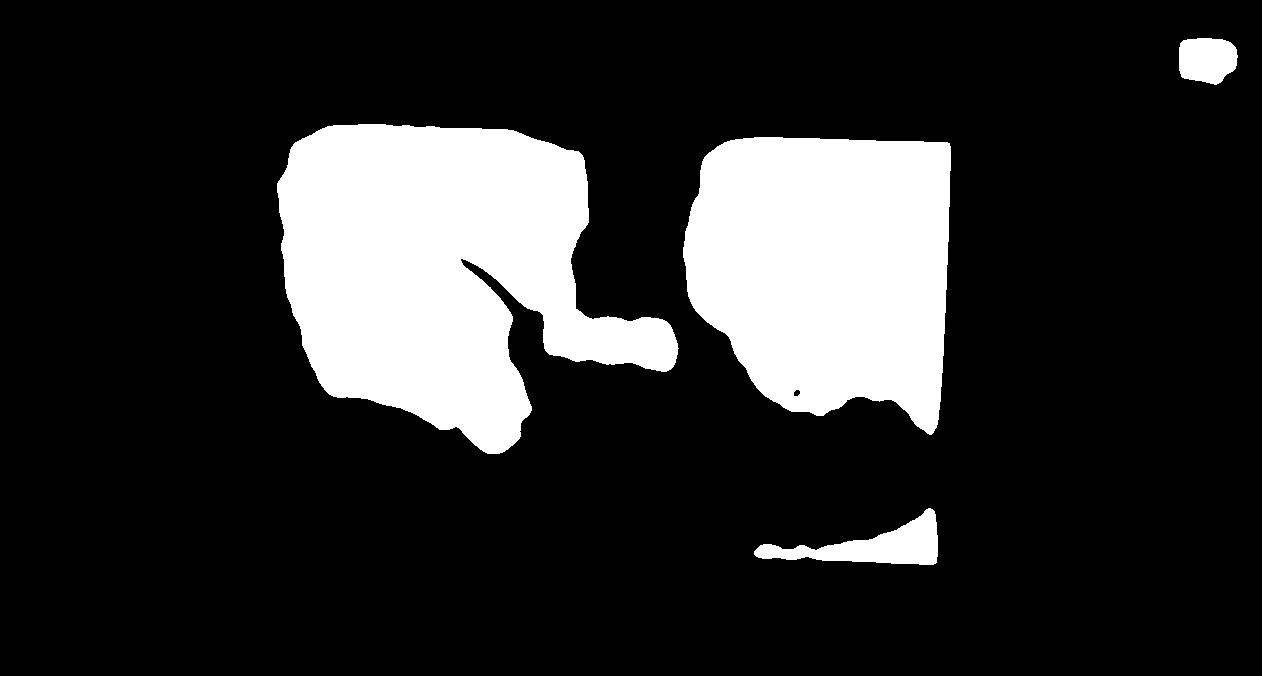
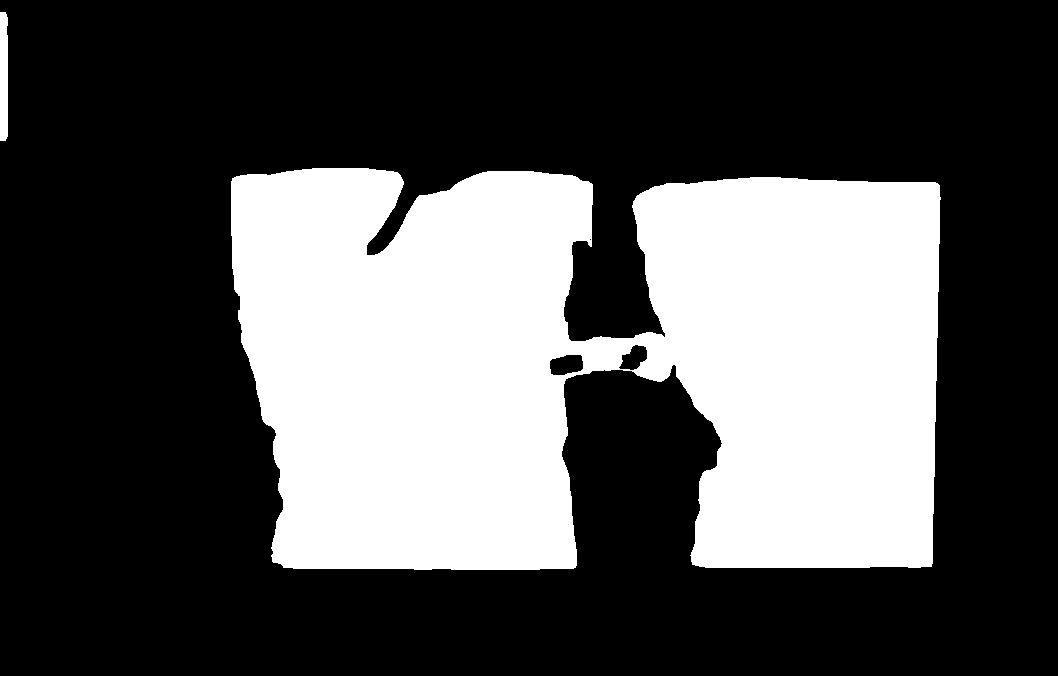
hitting the pause button

Changed region(s): [[0.2183, 0.1864, 0.9045, 0.8698], [0.0, 0.0311, 0.0312, 0.2175], [0.9357, 0.0311, 0.9981, 0.1243]]

diff --git a/test2.py b/test2.py
@@ -28,10 +28,11 @@ CV_CAP_PROP_MODE = 9
 #CV_CAP_PROP_RECTIFICATION
 
 class ExperimentMetrics(object):
-    square_25=square_50=square_75=square_100=dist_square_25=dist_square_50=dist_square_75=dist_square_100=square_num_bout=square_frame_bout=square_distance_bout=counter = 0
-    last_known_point= [0,0]
-    square_lap_bout = []
-    per25_point1 = per25_point2 = per50_point1 = per50_point2 = per75_point1 = per75_point2 = [0,0]
+    def __init__(self):
+        self.square_25=self.square_50=self.square_75=self.square_100=self.dist_square_25=self.dist_square_50=self.dist_square_75=self.dist_square_100=self.square_num_bout=self.square_frame_bout=self.square_distance_bout=self.counter = 0
+        self.last_known_point= [0,0]
+        self.square_lap_bout = []
+        self.per25_point1 = self.per25_point2 = self.per50_point1 = self.per50_point2 = self.per75_point1 = self.per75_point2 = [0,0]
 
     # The class "constructor" - It's actually an initializer
     #def __init__():
@@ -42,14 +43,16 @@ class ExperimentMetrics(object):
 #upper_right_25=upper_right_50=upper_right_75=upper_right=dist_upper_right_25=dist_upper_right_50=dist_upper_right_75=dist_upper_right=right_known_point=upper_right_num_bout=upper_right_frame_bout=upper_right_distance_bout=right_counter = 0
 #upper_right_lap_bout = []
 
-if len(sys.argv) != 3:
-    sys.stderr.write("usage: python test.py video_file results.xls\n")
+if len(sys.argv) != 4:
+    sys.stderr.write("usage: python test.py video_file results.xls dark/bright\n")
     sys.exit()
 # create video capture
 #cap = cv2.VideoCapture("/Users/hayer/Desktop/Anand/openfields/100611_openfield-b5.m4v")
 #cap = cv2.VideoCapture("/Users/kat/Desktop/071411_batch4-openfield.m4v")
 cap = cv2.VideoCapture(sys.argv[1])
 sample_name = sys.argv[1].split("/")[-1].split(".")[0]
+global brightness
+brightness = sys.argv[3]
 
 
 print sample_name
@@ -66,6 +69,7 @@ frame_per_sec = cap.get(CV_CAP_PROP_FPS)
 ##frame_per_sec = 30.03888889
 print "Frame per sec"
 print frame_per_sec
+increaser = int(frame_per_sec/5)
 
 def draw_rect(pic,height,width,percentage):
     w = int(width*percentage)
@@ -92,8 +96,11 @@ def analyze(frame,frame_name,frame2,x,y,exp_obj,width):
     frame3 = cv2.blur(frame,(17,17))
     #cv2.imshow('blur',frame)
     # convert to hsv and find range of colors
-    hsv = cv2.cvtColor(frame3,cv2.COLOR_BGR2HSV)
-    thresh = cv2.inRange(hsv,np.array((0, 0, 1)), np.array((0, 0, 20)))
+    hsv = frame3 #cv2.cvtColor(frame3,cv2.COLOR_BGR2HSV)
+    if brightness == "bright":
+        thresh = cv2.inRange(hsv,np.array((1, 1, 1)), np.array((150, 150, 150)))
+    else:
+        thresh = cv2.inRange(hsv,np.array((0, 0, 1)), np.array((0, 0, 15)))
 
     #res = cv2.morphologyEx(thresh,cv2.MORPH_OPEN,element)
     #cv2.imshow('thresh_first2',res)
@@ -155,15 +162,29 @@ def analyze(frame,frame_name,frame2,x,y,exp_obj,width):
             summe = [summe[0]+point[0][0],summe[1]+point[0][1]]
         mid_point = [summe[0]/number_of_points,summe[1]/number_of_points]
         ## Points for Histogramm
-        x.append(mid_point[0])
-        y.append(mid_point[1])
+        #x.append(mid_point[0])
+        #y.append(mid_point[1])
         mid_point = tuple([int(mid_point[0]),int(mid_point[1])])
         mid_points.append(mid_point)
-        cv2.circle(frame2,mid_point, 1, cv.CV_RGB(255,0,0))
-        cv2.circle(frame,mid_point, 1, cv.CV_RGB(255,0,0))
+        #cv2.circle(frame2,mid_point, 1, cv.CV_RGB(255,0,0))
+        #cv2.circle(frame,mid_point, 1, cv.CV_RGB(255,0,0))
+
+    closest = None
+    distance = 3000
+    for mp in mid_points:
+        if distance > dist(exp_obj.last_known_point,mp):
+            distance = dist(exp_obj.last_known_point,mp)
+            closest = mp
+
 
     in_mid_points = 0
-    for mp in mid_points:
+    if closest is not None:
+        mp = closest
+
+        x.append(mp[0])
+        y.append(mp[1])
+        cv2.circle(frame2,mp, 1, cv.CV_RGB(255,0,0))
+        cv2.circle(frame,mp, 1, cv.CV_RGB(255,0,0))
         in_mid_points = 1
         exp_obj.last_known_point = exp_obj.last_known_point or mp
         distance = dist(exp_obj.last_known_point,mp)
@@ -194,7 +215,6 @@ def analyze(frame,frame_name,frame2,x,y,exp_obj,width):
             exp_obj.square_100 = exp_obj.square_100 + 1
             exp_obj.dist_square_100 = exp_obj.dist_square_100 + distance
         exp_obj.last_known_point = mp
-        break
         #last_known_point = mp
 
     if in_mid_points == 0:
@@ -223,14 +243,20 @@ def analyze(frame,frame_name,frame2,x,y,exp_obj,width):
     cv2.imshow('%sframe' % (frame_name),frame)
     return
 
+cap.set(CV_CAP_PROP_POS_FRAMES,500)
 _,frame2 = cap.read()
 imgray = cv2.blur(frame2,(15,15))
-thresh = cv2.inRange(imgray,np.array((110,110,110)), np.array((300, 300, 300)))
-element = cv2.getStructuringElement(cv2.MORPH_ELLIPSE ,(5,5))
-cv2.erode(thresh,element,thresh,None,6)
-cv2.dilate(thresh,element,thresh,None,10)
-
+#imgray = cv2.cvtColor(imgray,cv2.COLOR_BGR2GRAY)
+if brightness == "bright":
+    #thresh = cv2.inRange(imgray,np.array((200)), np.array((300)))
+    thresh = cv2.inRange(imgray,np.array((250,250,250)), np.array((300, 300, 300)))
+else:
+    thresh = cv2.inRange(imgray,np.array((100,100,100)), np.array((160, 160, 160)))
+#element = cv2.getStructuringElement(cv2.MORPH_ELLIPSE ,(5,5))
+#cv2.erode(thresh,element,thresh,None,6)
+#cv2.dilate(thresh,element,thresh,None,10)
 cv2.imwrite("gray_tra.png",thresh)
+
 cv2.imshow('thresh',thresh)
 contours,hierarchy = cv2.findContours(thresh,cv2.RETR_LIST,cv2.CHAIN_APPROX_SIMPLE)
 num_p = 0
@@ -241,14 +267,23 @@ actual_height = int(cap.get(4))
 while not contours:
     _,frame2 = cap.read()
     cv2.imshow('frame2',frame2)
+
     imgray = cv2.blur(frame2,(15,15))
-    thresh = cv2.inRange(imgray,np.array((110,110,110)), np.array((300, 300, 300)))
+    #imgray = cv2.cvtColor(imgray,cv2.COLOR_BGR2HSV)
+    if brightness == "bright":
+        #thresh = cv2.inRange(hsv,np.array((0, 0, 1)), np.array((0, 0, 15)))
+        #thresh = cv2.inRange(imgray,np.array((200)), np.array((300)))
+        thresh = cv2.inRange(imgray,np.array((250,250,250)), np.array((300, 300, 300)))
+    else:
+        thresh = cv2.inRange(imgray,np.array((100,100,100)), np.array((160, 160, 160)))
+    #thresh = cv2.inRange(imgray,np.array((110,110,110)), np.array((300, 300, 300)))
     #imgray = cv2.cvtColor(imgray,cv2.COLOR_BGR2GRAY)
     #cv2.imshow('imgray',imgray)
     #ret,thresh = cv2.threshold(imgray,170,200,0)
     #cv2.imwrite("gray_tra.png",thresh)
     #cv2.imshow('thresh',thresh)
     contours,hierarchy = cv2.findContours(thresh,cv2.RETR_LIST,cv2.CHAIN_APPROX_SIMPLE)
+    cv2.imwrite("gray_tra.png",thresh)
 
 for cnt in contours:
     for point in cnt:
@@ -273,15 +308,20 @@ diff_height = actual_height - height
 
 cv_rect_obj = frame2[0:height,0:width]
 frame2 = frame2[0:height,0:width]
+
+#cv_rect_obj = cv2.cvtColor(cv_rect_obj,cv2.COLOR_BGR2GRAY)
 cv2.imwrite("gray_test.png",cv_rect_obj)
-#hsv = cv2.cvtColor(cv_rect_obj,cv2.COLOR_BGR2HSV)
 imgray = cv2.blur(cv_rect_obj,(15,15))
-thresh = cv2.inRange(imgray,np.array((110,110,110)), np.array((300, 300, 300)))
+if brightness == "bright":
+    thresh = cv2.inRange(imgray,np.array((250,250,250)), np.array((300,300, 300)))
+else:
+    thresh = cv2.inRange(imgray,np.array((100,100,100)), np.array((160, 160, 160)))
+#thresh = cv2.inRange(imgray,np.array((110,110,110)), np.array((300, 300, 300)))
 
 cv2.imwrite("gray_test3.png",thresh)
-element = cv2.getStructuringElement(cv2.MORPH_ELLIPSE ,(3,3))
-cv2.erode(thresh,element,thresh,None,10)
-cv2.dilate(thresh,element,thresh,None,10)
+#element = cv2.getStructuringElement(cv2.MORPH_ELLIPSE ,(3,3))
+#cv2.erode(thresh,element,thresh,None,10)
+#cv2.dilate(thresh,element,thresh,None,10)
 contours,hierarchy = cv2.findContours(thresh,cv2.RETR_TREE,cv2.CHAIN_APPROX_SIMPLE)
 #cv2.drawContours(cv_rect_obj,contours,-1,cv.CV_RGB(255,255,0),1)
 
@@ -298,9 +338,15 @@ frame2 = frame2[y_in:y_in+h_in,x_in:w_in+x_in]
 imgray = cv2.blur(cv_rect_obj,(15,15))
 #imgray = cv2.cvtColor(imgray,cv2.COLOR_BGR2GRAY)
 #ret,thresh = cv2.threshold(imgray,170,200,0)
-thresh = cv2.inRange(imgray,np.array((110,110,110)), np.array((300, 300, 300)))
+if brightness == "bright":
+    #thresh = cv2.inRange(imgray,np.array((200)), np.array((300)))
+    thresh = cv2.inRange(imgray,np.array((250,250,250)), np.array((300, 300, 300)))
+else:
+    thresh = cv2.inRange(imgray,np.array((100,100,100)), np.array((160, 160, 160)))
+#thresh = cv2.inRange(imgray,np.array((110,110,110)), np.array((300, 300, 300)))
+element = cv2.getStructuringElement(cv2.MORPH_ELLIPSE ,(3,3))
 cv2.erode(thresh,element,thresh,None,6)
-cv2.dilate(thresh,element,thresh,None,10)
+cv2.dilate(thresh,element,thresh,None,6)
 cv2.imwrite("gray_tra2.png",thresh)
 cv2.imshow('thresh',thresh)
 contours,hierarchy = cv2.findContours(thresh,cv2.RETR_LIST,cv2.CHAIN_APPROX_SIMPLE)
@@ -319,6 +365,8 @@ for cnt in contours:
 
 width = int(np.median(all_x))
 height = h_in
+
+width = w_in/2
 
 
 
@@ -347,9 +395,9 @@ cv_rect_obj2 = cv_rect_obj[0:height,width:width*2]
 #perc_25_width = int((half_width-half_width*0.15)/2)
 #perc_25_height = int((height-height*0.15)/2)
 
-bout_threshold = 11
+bout_threshold = 3*increaser
 dist_threshold = 6
-conversion_pixel_to_cm = 10
+conversion_pixel_to_cm = 15
 
 ## Points for heatmap
 x_left = []
@@ -365,7 +413,7 @@ y_right = []
 #upper_right_lap_bout = []
 
 
-frame_number = cap.get(CV_CAP_PROP_POS_FRAMES)
+
 time_in_msec = 0
 #frame_per_sec = 0
 left_known_point = right_known_point = [0,0]
@@ -373,8 +421,8 @@ left_known_point = right_known_point = [0,0]
 left_object = ExperimentMetrics()
 right_object = ExperimentMetrics()
 
-width_l = width
-width_r = w_in - width
+width_l = w_in/2
+width_r = w_in/2
 
 left_object.per75_point1 = [int(width_l-width_l*0.7)/2,int((height-height*0.7)/2)]
 left_object.per75_point2 = [int((width_l-width_l*0.7)/2+width_l*0.7),int((height-height*0.7)/2+height*0.7)]
@@ -389,7 +437,8 @@ right_object.per50_point2 = [int((width_r-width_r*0.45)/2+width_r*0.45),int((hei
 right_object.per25_point1 = [int(width_r-width_r*0.2)/2,int((height-height*0.2)/2)]
 right_object.per25_point2 = [int((width_r-width_r*0.2)/2+width_r*0.2),int((height-height*0.2)/2+height*0.2)]
 
-
+cap.set(CV_CAP_PROP_POS_FRAMES,0)
+frame_number = cap.get(CV_CAP_PROP_POS_FRAMES)
 while(frame_number < total_number_of_frames):
 #while(frame_number < 250):
     #frame_number = cap.get(CV_CAP_PROP_POS_FRAMES)
@@ -422,7 +471,9 @@ while(frame_number < total_number_of_frames):
     if cv2.waitKey(1) == 27:
         break
 
-    frame_number = int(frame_number+5)
+    frame_number = int(frame_number+increaser)
+    #print left_object.square_lap_bout
+    #print right_object.square_lap_bout
 
 
 cv2.imwrite(sample_name + "_tra.png",frame2)
@@ -454,10 +505,10 @@ w_sheet.write(r_sheet.nrows+1,0,"Results for " + sample_name)
 ### UPPER LEFT
 w_sheet.write(r_sheet.nrows+2,0,"Left")
 # FIXTIME:
-left_object.square_100 = left_object.square_100 * 5
-left_object.square_75 = left_object.square_75 * 5
-left_object.square_50 = left_object.square_50 * 5
-left_object.square_25 = left_object.square_25 * 5
+left_object.square_100 = left_object.square_100 * increaser
+left_object.square_75 = left_object.square_75 * increaser
+left_object.square_50 = left_object.square_50 * increaser
+left_object.square_25 = left_object.square_25 * increaser
 
 # TIME
 w_sheet.write(r_sheet.nrows+2,1,(left_object.square_100    / frame_per_sec))
@@ -485,18 +536,18 @@ w_sheet.write(r_sheet.nrows+2,11,(speed_upper_left_50))
 w_sheet.write(r_sheet.nrows+2,12,(speed_upper_left_25))
 # BOUTS
 w_sheet.write(r_sheet.nrows+2,13,(left_object.square_num_bout))
-w_sheet.write(r_sheet.nrows+2,14,(left_object.square_frame_bout*5 / frame_per_sec))
+w_sheet.write(r_sheet.nrows+2,14,(left_object.square_frame_bout*increaser / frame_per_sec))
 w_sheet.write(r_sheet.nrows+2,15,(left_object.square_distance_bout/conversion_pixel_to_cm))
 for i,f in enumerate(left_object.square_lap_bout):
-    w_sheet.write(r_sheet.nrows+2,i+16,f*5/ frame_per_sec)
+    w_sheet.write(r_sheet.nrows+2,i+16,f*increaser)
 
 ### UPPER RIGHT
 w_sheet.write(r_sheet.nrows+3,0,"Right")
 # FIXTIME:
-right_object.square_100 = right_object.square_100 * 5
-right_object.square_75 = right_object.square_75 * 5
-right_object.square_50 = right_object.square_50 * 5
-right_object.square_25 = right_object.square_25 * 5
+right_object.square_100 = right_object.square_100 * increaser
+right_object.square_75 = right_object.square_75 * increaser
+right_object.square_50 = right_object.square_50 * increaser
+right_object.square_25 = right_object.square_25 * increaser
 
 # TIME
 w_sheet.write(r_sheet.nrows+3,1,(right_object.square_100    / frame_per_sec))
@@ -524,10 +575,10 @@ w_sheet.write(r_sheet.nrows+3,11,(speed_upper_right_50))
 w_sheet.write(r_sheet.nrows+3,12,(speed_upper_right_25))
 # BOUTS
 w_sheet.write(r_sheet.nrows+3,13,(right_object.square_num_bout))
-w_sheet.write(r_sheet.nrows+3,14,(right_object.square_frame_bout*5 / frame_per_sec))
+w_sheet.write(r_sheet.nrows+3,14,(right_object.square_frame_bout*increaser / frame_per_sec))
 w_sheet.write(r_sheet.nrows+3,15,(right_object.square_distance_bout/conversion_pixel_to_cm))
 for i,f in enumerate(right_object.square_lap_bout):
-    w_sheet.write(r_sheet.nrows+3,i+16,f*5/ frame_per_sec)
+    w_sheet.write(r_sheet.nrows+3,i+16,f*increaser)
 
 
 wb.save(results_excel)
